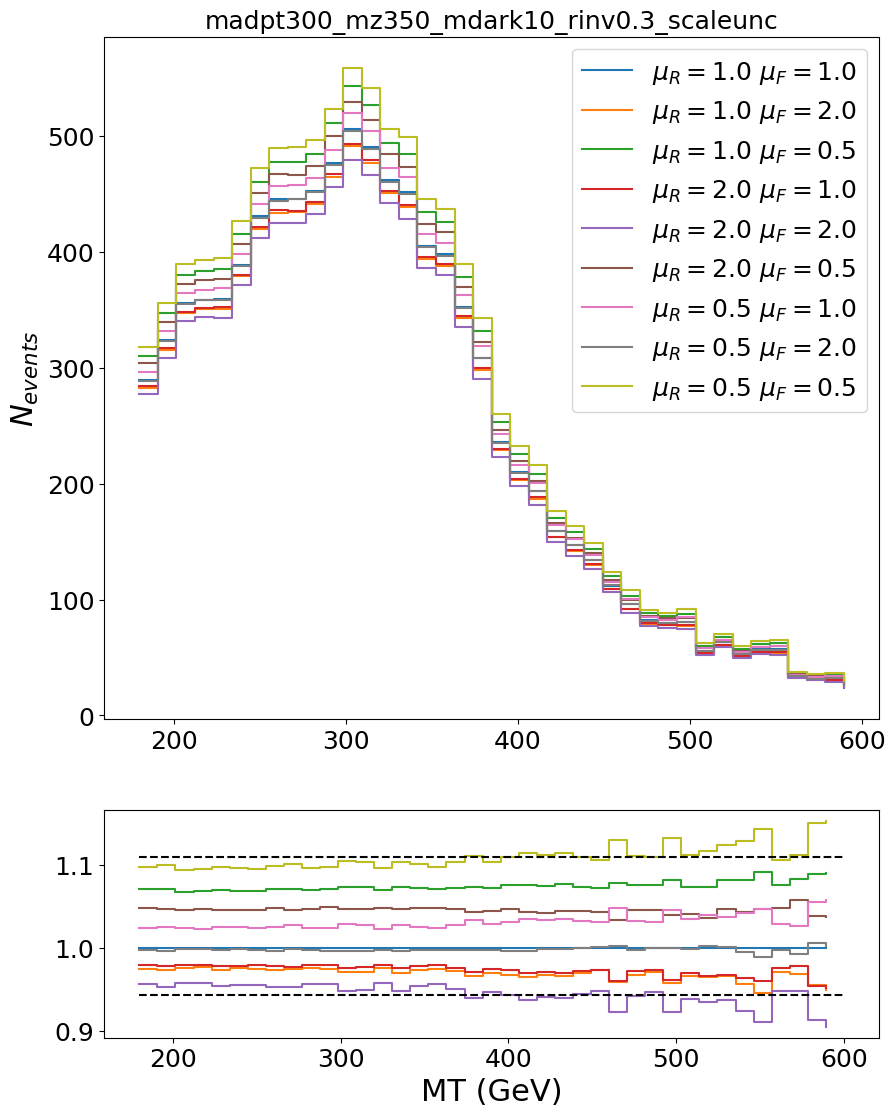
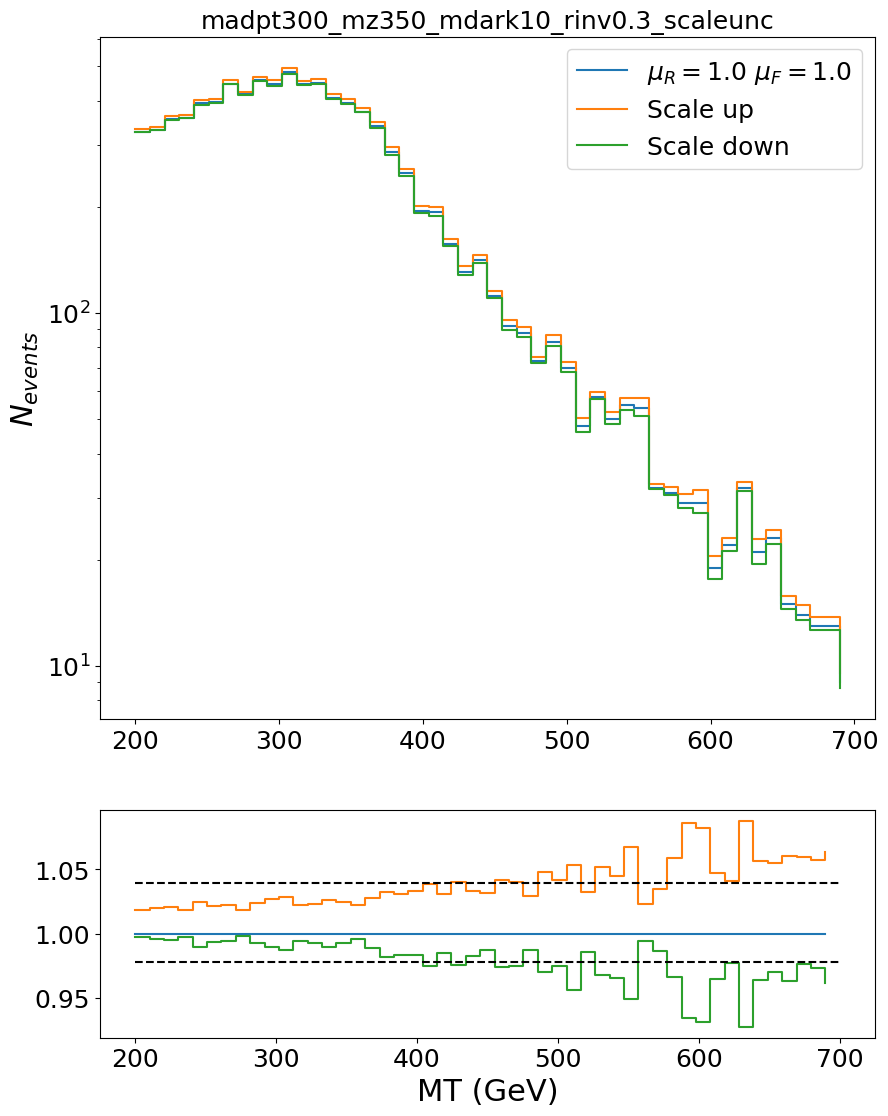
update to scale unc

diff --git a/study_scaleunc.py b/study_scaleunc.py
@@ -10,15 +10,15 @@ scripter = common.Scripter()
 
 # (mur, muf)
 mur_muf = [
-    (1., 1.),
-    (1., 2.),
-    (1., .5),
-    (2., 1.),
-    (2., 2.),
-    (2., .5),
-    (.5, 1.),
-    (.5, 2.),
-    (.5, .5),
+    (1., 1.), # 0
+    (1., 2.), # 1
+    (1., .5), # 2
+    (2., 1.), # 3
+    (2., 2.), # 4
+    (2., .5), # 5 <-
+    (.5, 1.), # 6
+    (.5, 2.), # 7 <-
+    (.5, .5), # 8
     ]
 
 mur_muf_titles = [ rf'$\mu_{{R}}={mur:.1f}$ $\mu_{{F}}={muf:.1f}$' for mur, muf in mur_muf ]
@@ -28,6 +28,8 @@ mur_muf_titles = [ rf'$\mu_{{R}}={mur:.1f}$ $\mu_{{F}}={muf:.1f}$' for mur, muf 
 def plot():
     infile = common.pull_arg('infile', type=str).infile
     model_file = common.pull_arg('modelfile', type=str).modelfile
+    mtaxis = list(common.pull_arg('mtaxis', type=float, nargs='*').mtaxis)
+    unnormalized = common.pull_arg('--unnormalized', action='store_true').unnormalized
 
     cols = svj.Columns.load(infile)
     features = common.read_training_features(model_file)
@@ -46,8 +48,20 @@ def plot():
 
     mt = mt[sel]
     scale_weight = scale_weight[sel]
-    bins = np.linspace(180, 600, 40)
 
+    # Drop column 5 and 7: the .5/2 and 2/.5 variations
+    scale_weight = scale_weight[:, np.array([0,1,2,3,4,6,8])]
+    del mur_muf[7]; del mur_muf[5]
+    del mur_muf_titles[7]; del mur_muf_titles[5]
+
+    assert scale_weight.shape == (len(mt), 7)
+
+
+    bins = np.linspace(180, 600, 40)
+    if len(mtaxis) == 3:
+        bins = np.linspace(mtaxis[0], mtaxis[1], int(mtaxis[2]))
+    else:
+        raise Exception('Specify mt axis as left right nbins')
 
 
     fig, (top, bot) = plt.subplots(2,1, height_ratios=[3,1], figsize=(10,13))
@@ -56,23 +70,27 @@ def plot():
     l = top.step(bins[:-1], central, where='post', label=mur_muf_titles[0])[0]
     bot.step(bins[:-1], central/central, where='post', label=mur_muf_titles[0], color=l.get_color())
 
-    max_up = np.ones_like(central)
-    max_down = np.ones_like(central)
+    weight_up = np.max(scale_weight, axis=-1)
+    weight_down = np.min(scale_weight, axis=-1)
 
-    for i_var in range(1, len(mur_muf)):
-        h, _ = np.histogram(mt, bins, weights=scale_weight[:,i_var])
-        l = top.step(bins[:-1], h, where='post', label=mur_muf_titles[i_var])[0]
-        bot.step(bins[:-1], h / central, where='post', label=mur_muf_titles[i_var], color=l.get_color())
-        max_up = np.maximum(max_up, h/central)
-        max_down = np.minimum(max_down, h/central)
+    up, _ = np.histogram(mt, bins, weights=weight_up)
+    if not unnormalized: up *= cols.metadata['factor_up']
+    l = top.step(bins[:-1], up, where='post', label='Scale up')[0]
+    bot.step(bins[:-1], up / central, where='post', color=l.get_color())
+
+    down, _ = np.histogram(mt, bins, weights=weight_down)
+    if not unnormalized: down *= cols.metadata['factor_down']
+    l = top.step(bins[:-1], down, where='post', label='Scale down')[0]
+    bot.step(bins[:-1], down / central, where='post', color=l.get_color())
 
     top.set_title(osp.basename(infile).replace('.npz',''))
     bot.set_xlabel('MT (GeV)')
     top.set_ylabel(r'$N_{events}$')
     top.legend()
+    top.set_yscale('log')
 
-    err_up = max_up.mean()
-    err_down = max_down.mean()
+    err_up = (up / central).mean()
+    err_down = (down / central).mean()
 
     bot.plot([bins[0], bins[-1]], [err_up, err_up], c='black', linestyle='--')
     bot.plot([bins[0], bins[-1]], [err_down, err_down], c='black', linestyle='--')
@@ -82,7 +100,9 @@ def plot():
 
     print(f'{err_up-1=:.5f}')
     print(f'{1-err_down=:.5f}')
-
     print(f'avg err={.5*(err_up-1) + .5*(1-err_down)}')
+
+
+
 
 if __name__ == '__main__': scripter.run()
